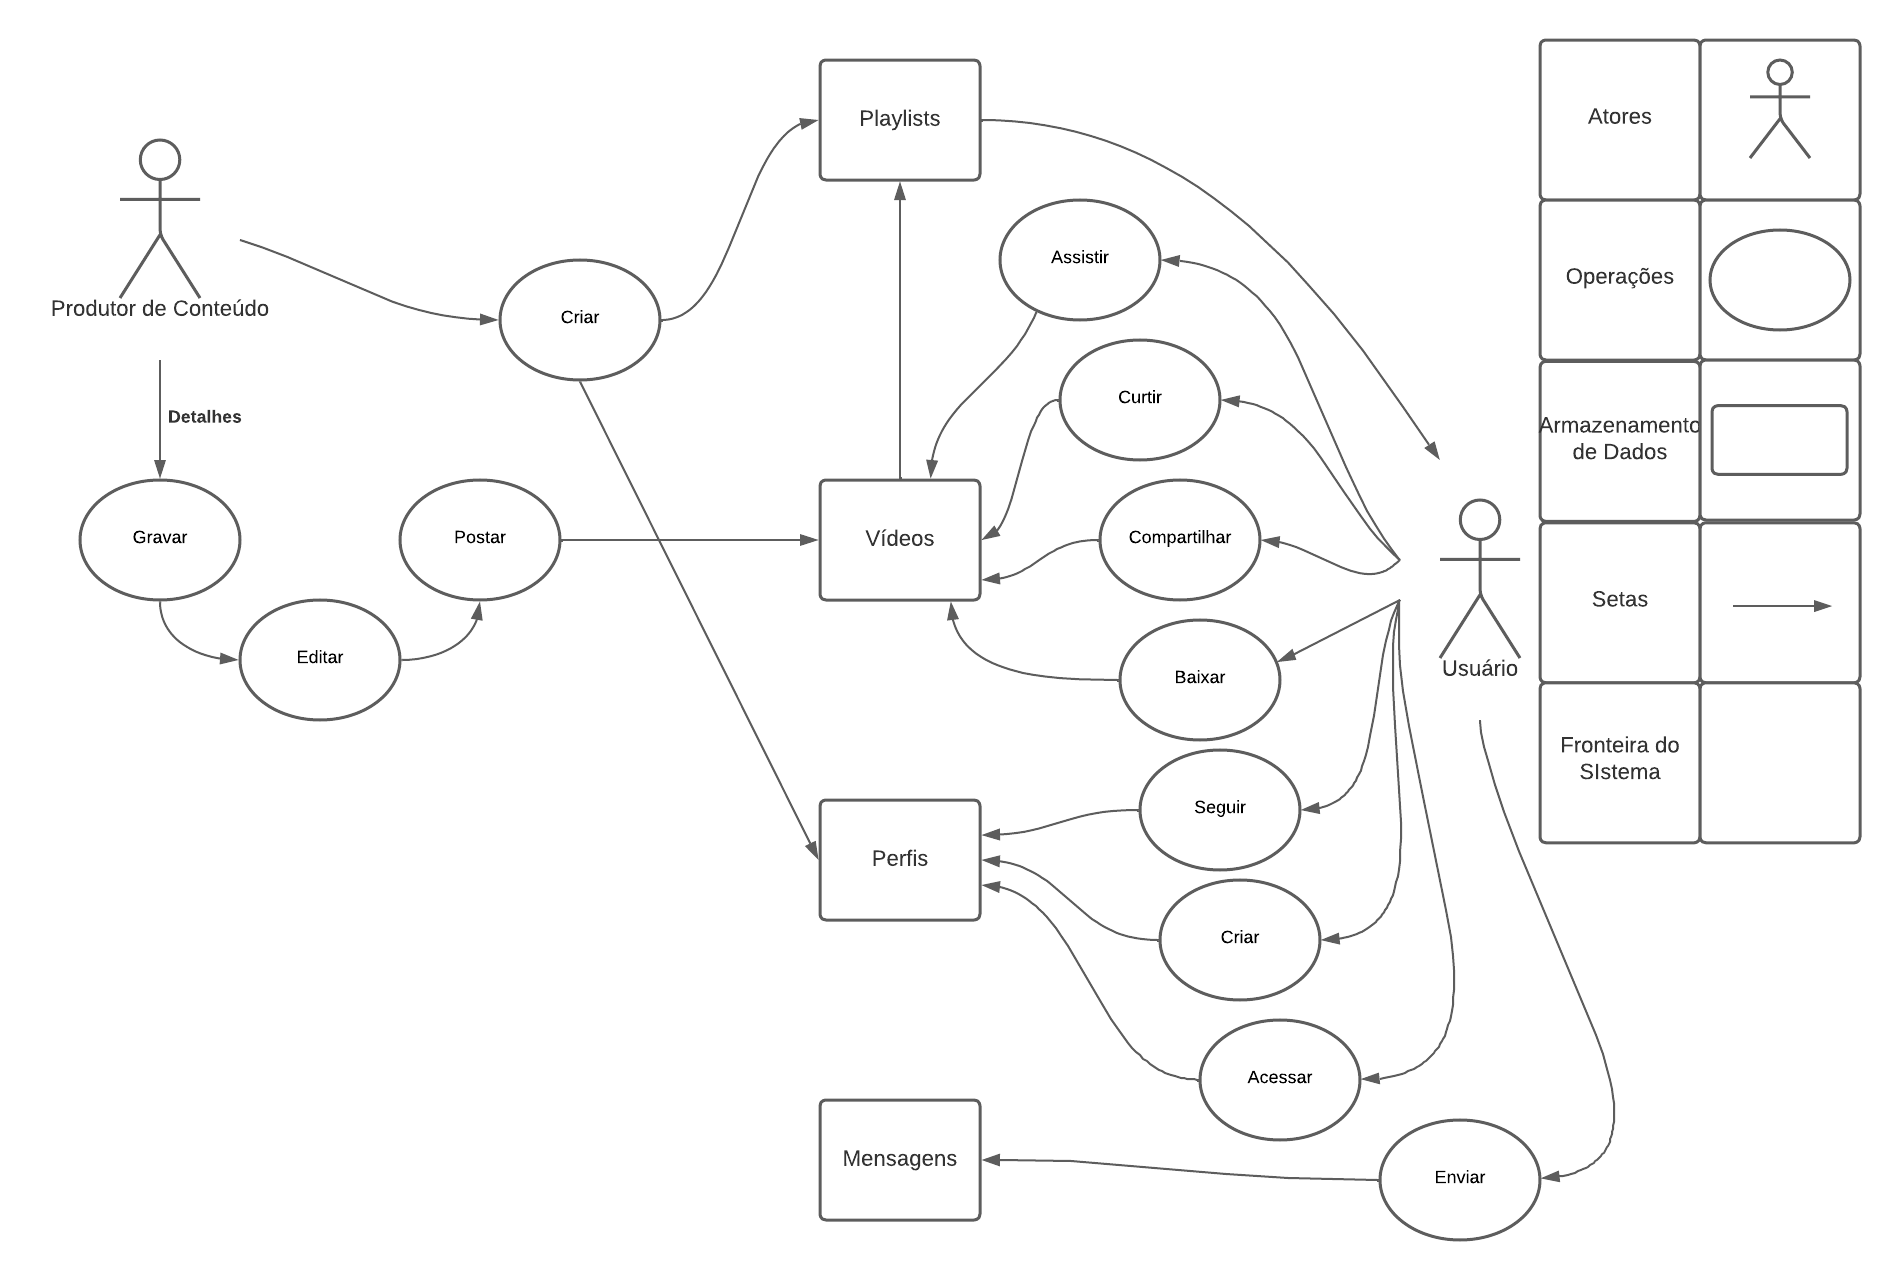
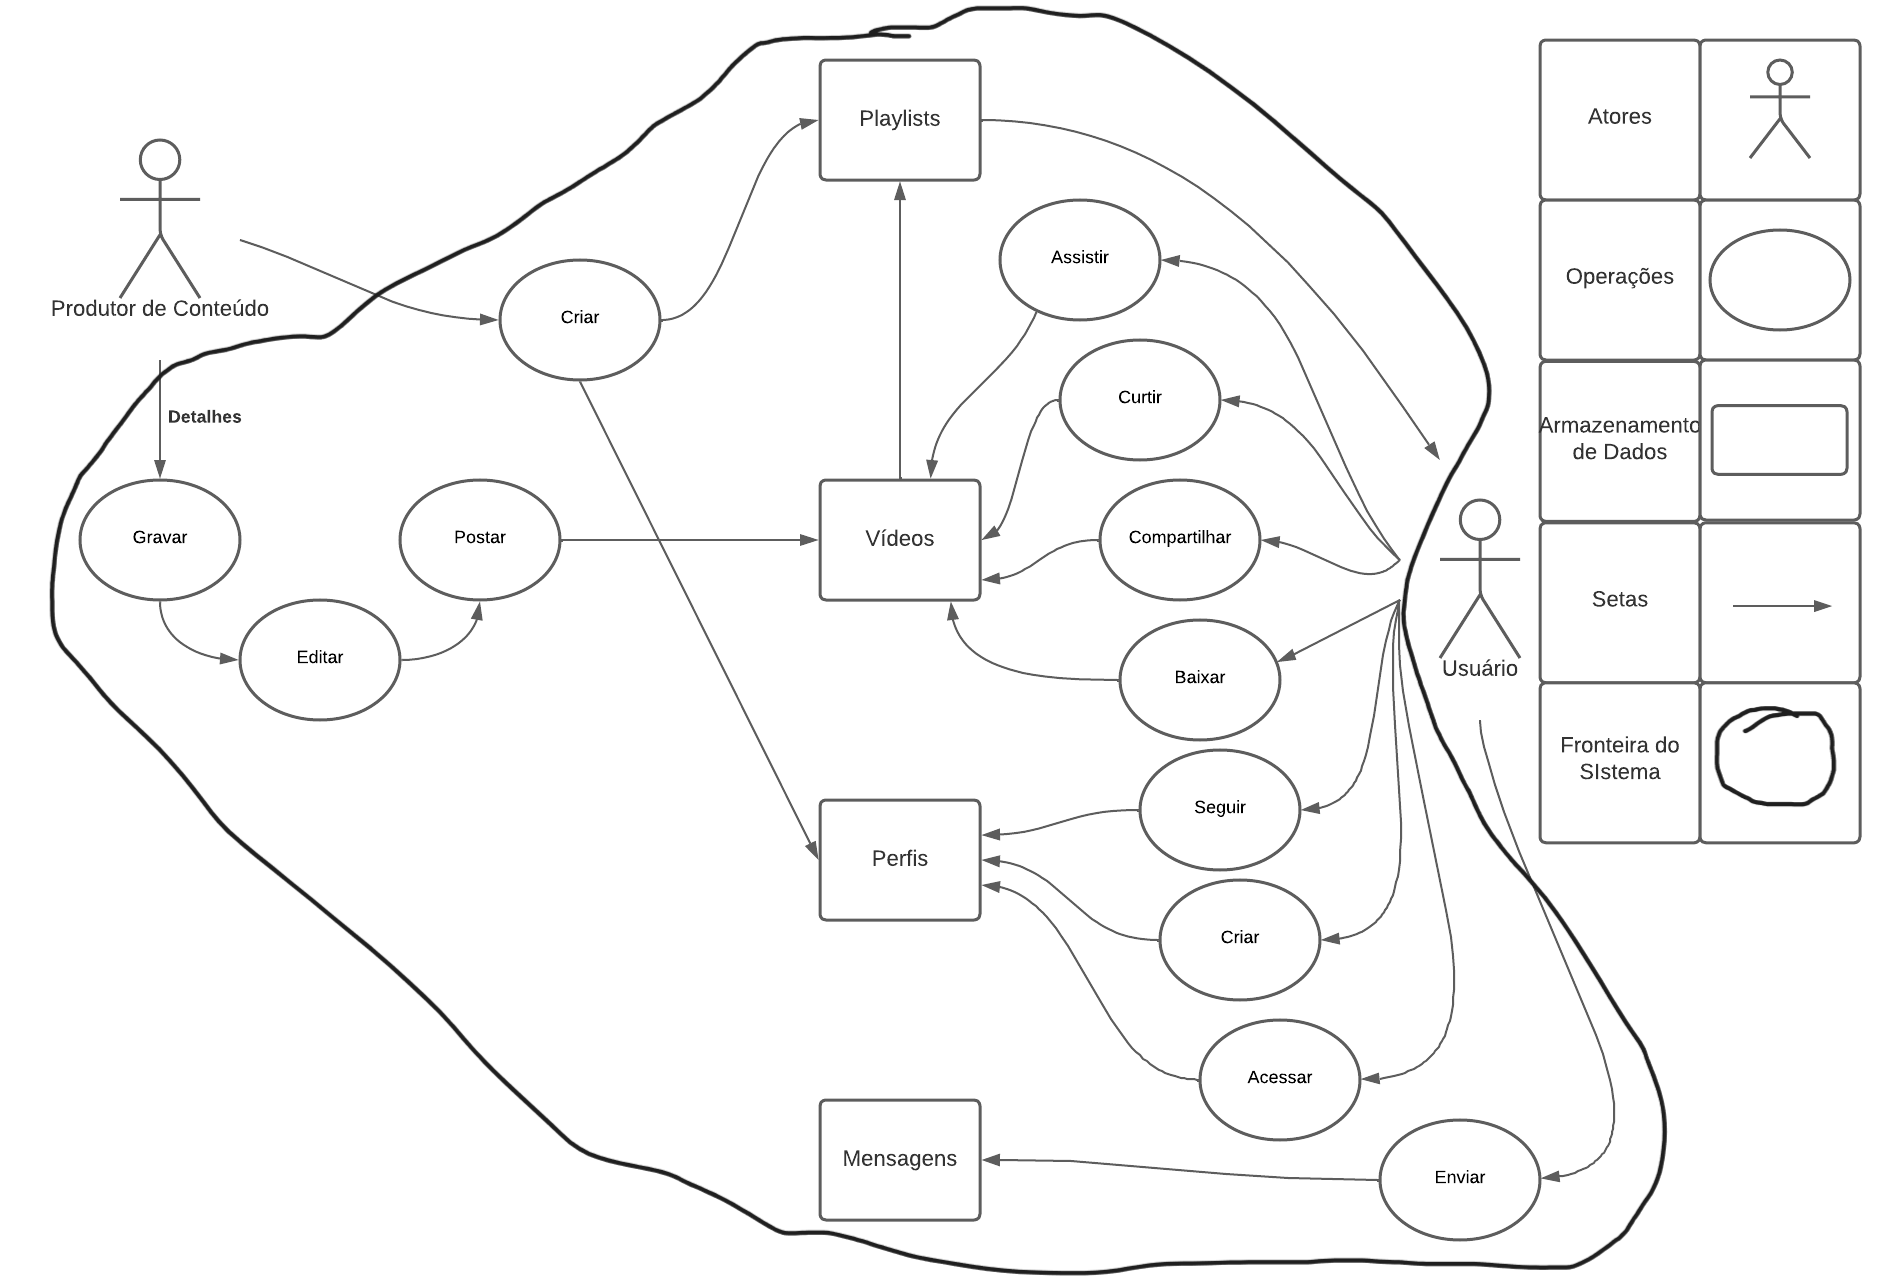
#38 - Adição da fronteira do sistema na imagem

diff --git a/docs/rich-picture.md b/docs/rich-picture.md
@@ -7,7 +7,7 @@
 |  1.1   | Matheus Perillo   | Adição de legenda na imagem                        |                |
 |  2.0   | Matheus Soares    | Confecção da Segunda versão do Rich Picture        |                |
 |  2.1   | Mateus Caltabiano | Adição da imagem da segunda versão do Rich Picture | Matheus Soares |
-
+|  2.2   | Mateus Caltabiano | Correção na imagem: Adição da fronteira do sistema | Matheus Soares |
 
 ## 2. Introdução
 
